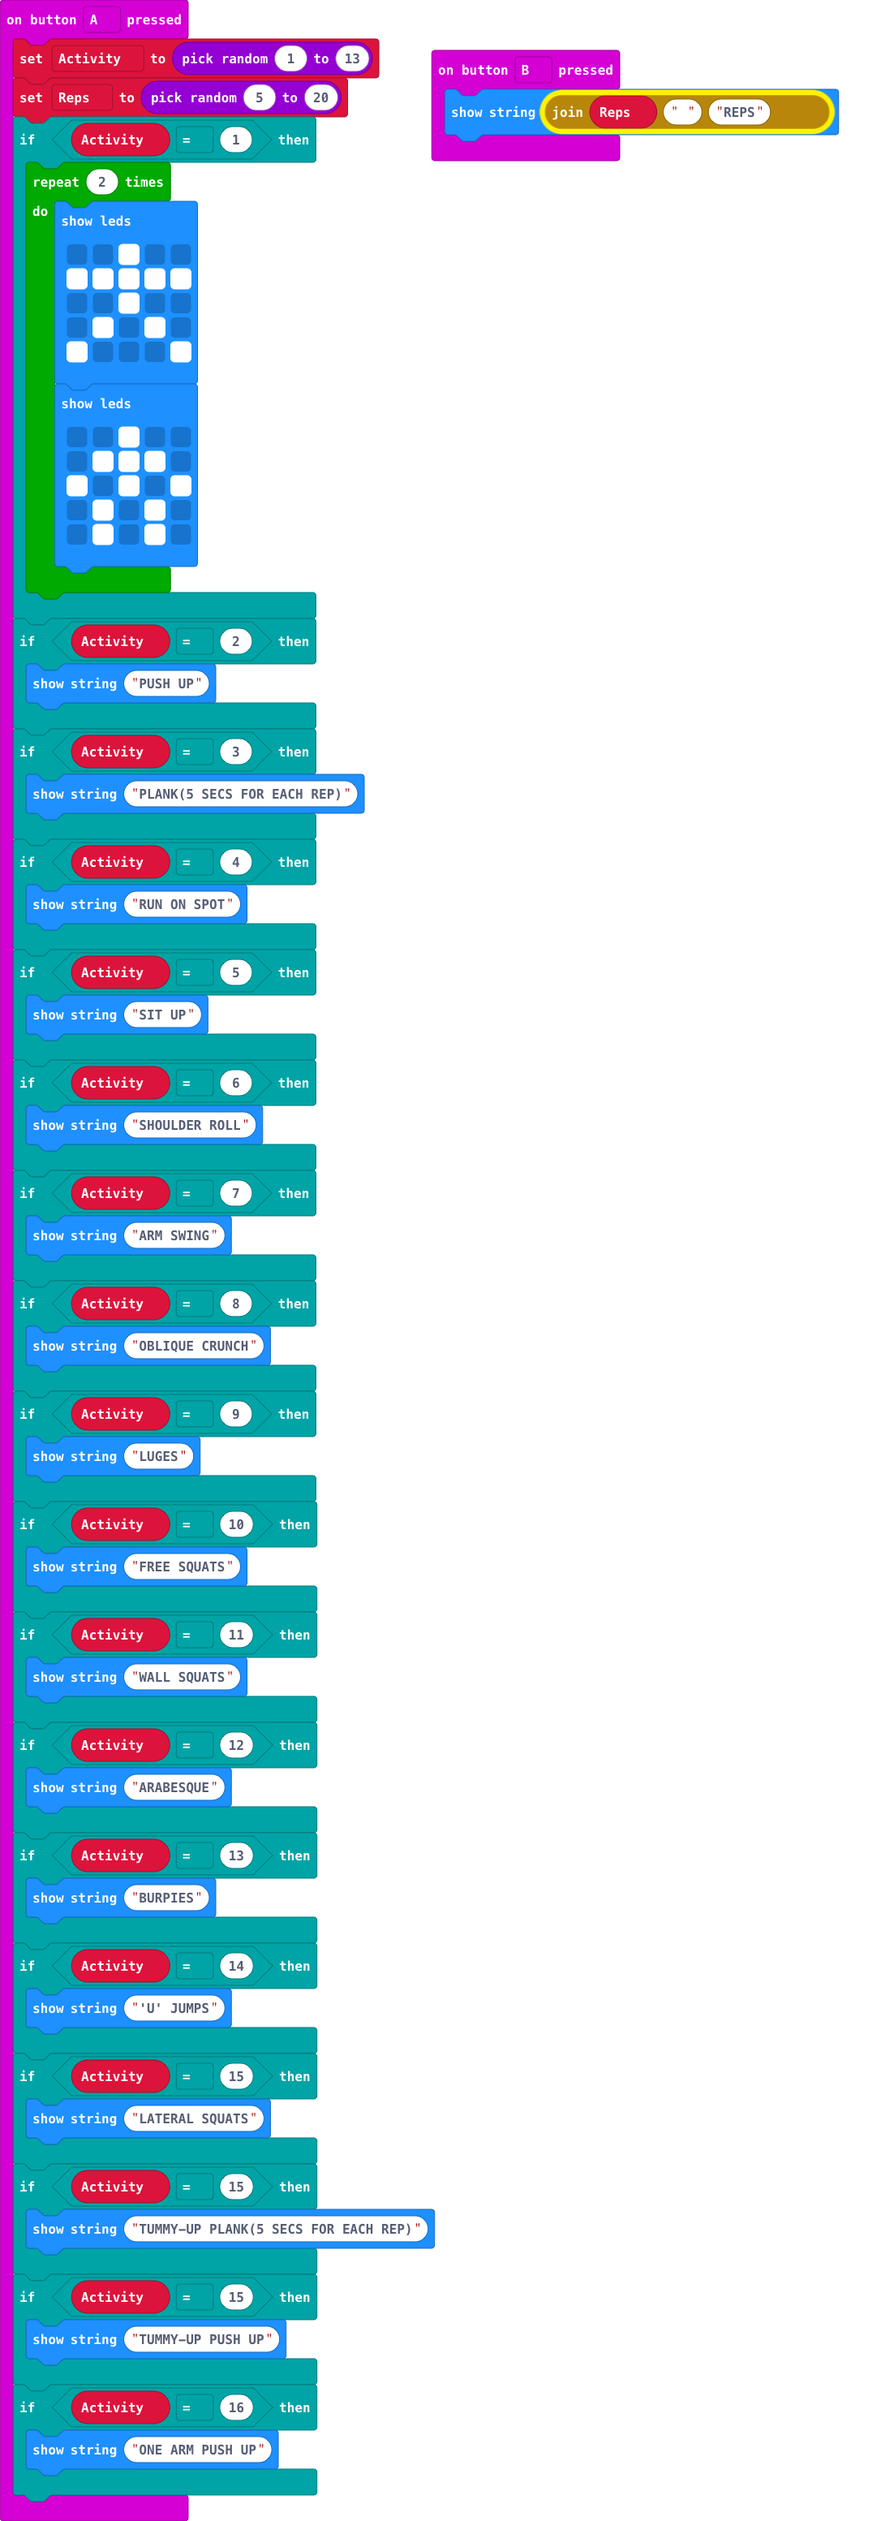
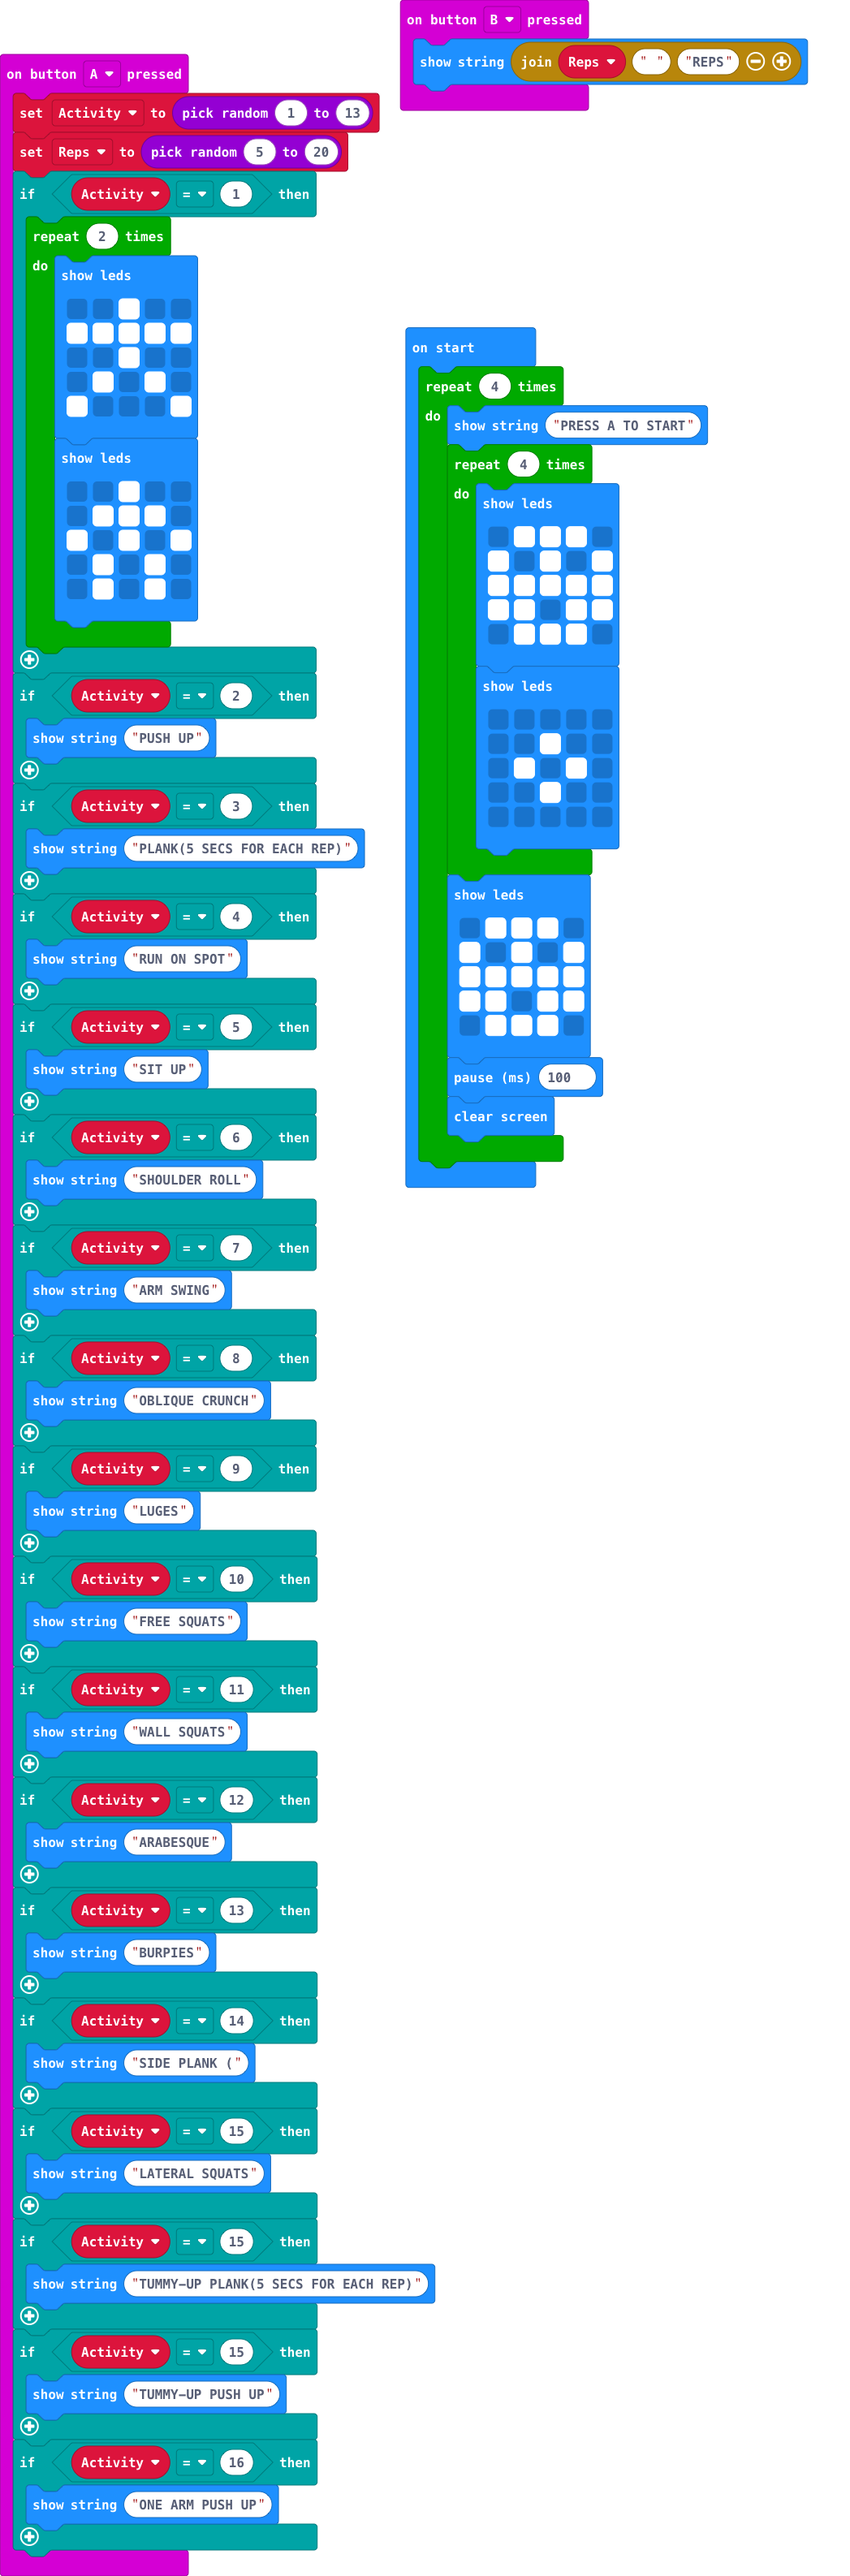
Update main.blocks, main.ts

Changed region(s): [[0.0, 0.0, 0.978, 1.0], [0.4585, 0.1249, 0.8558, 0.4684]]

diff --git a/main.ts b/main.ts
@@ -1,5 +1,3 @@
-let Activity = 0
-let Reps = 0
 input.onButtonPressed(Button.A, function () {
     Activity = randint(1, 13)
     Reps = randint(5, 20)
@@ -58,7 +56,7 @@ input.onButtonPressed(Button.A, function () {
         basic.showString("BURPIES")
     }
     if (Activity == 14) {
-        basic.showString("'U' JUMPS")
+        basic.showString("SIDE PLANK (")
     }
     if (Activity == 15) {
         basic.showString("LATERAL SQUATS")
@@ -76,3 +74,33 @@ input.onButtonPressed(Button.A, function () {
 input.onButtonPressed(Button.B, function () {
     basic.showString("" + Reps + " " + "REPS")
 })
+let Reps = 0
+let Activity = 0
+for (let index = 0; index < 4; index++) {
+    basic.showString("PRESS A TO START")
+    for (let index = 0; index < 4; index++) {
+        basic.showLeds(`
+            . # # # .
+            # . # . #
+            # # # # #
+            # # . # #
+            . # # # .
+            `)
+        basic.showLeds(`
+            . . . . .
+            . . # . .
+            . # . # .
+            . . # . .
+            . . . . .
+            `)
+    }
+    basic.showLeds(`
+        . # # # .
+        # . # . #
+        # # # # #
+        # # . # #
+        . # # # .
+        `)
+    basic.pause(100)
+    basic.clearScreen()
+}
